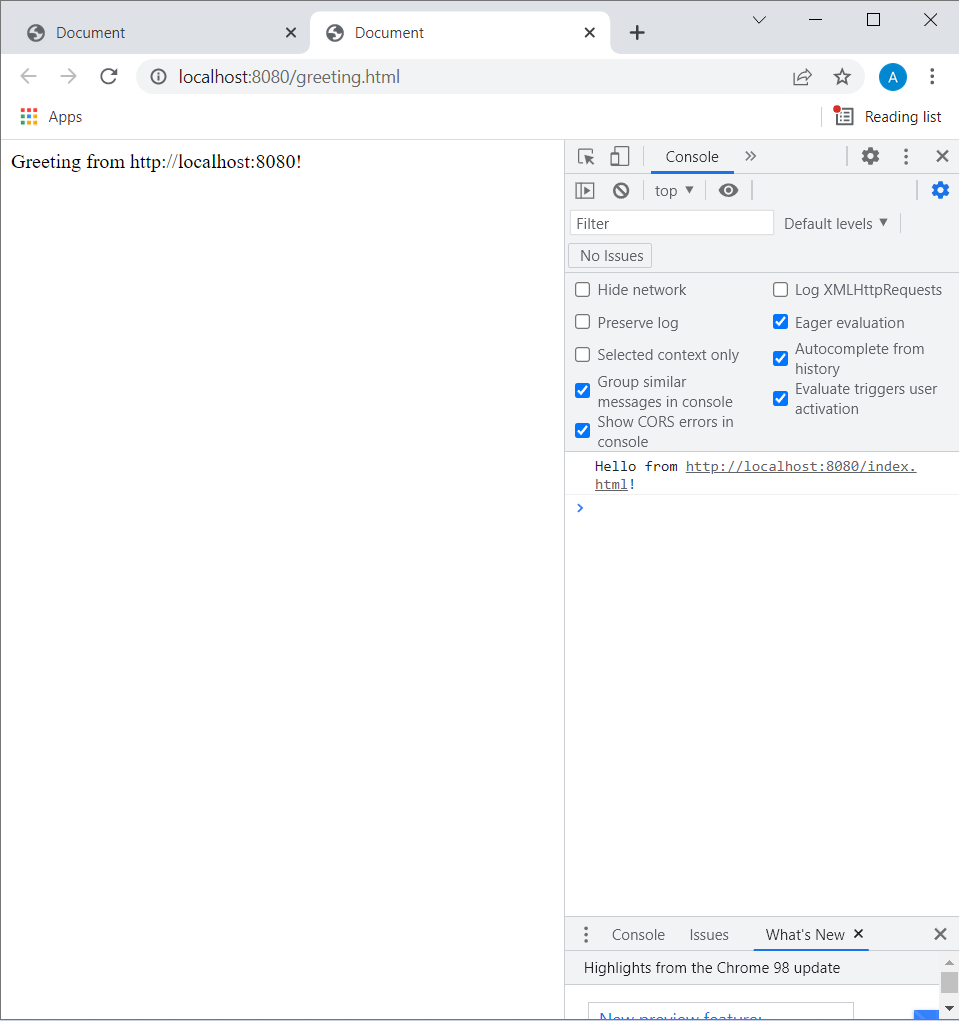
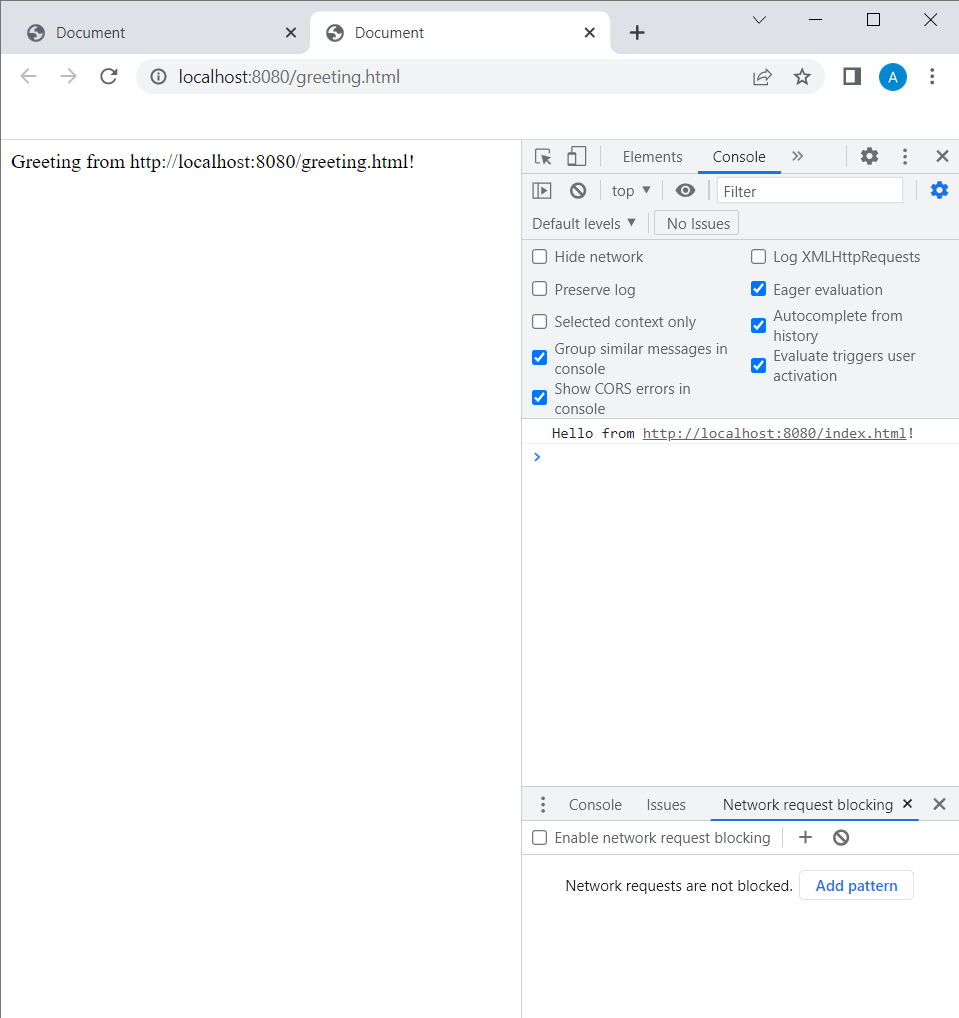
Notes about SOP updated

diff --git a/section_6_same_origin_policy/examples/window-open/origin2/main.js b/section_6_same_origin_policy/examples/window-open/origin2/main.js
@@ -11,7 +11,7 @@ document.addEventListener('DOMContentLoaded', function () {
     window.newWindow = newWindow;
     newWindow.addEventListener('load', function () {
       const greetingContainer = newWindow.document.getElementById('greeting-container');
-      const greetingContent = document.createTextNode(`Greeting from ${window.location.origin}!`);
+      const greetingContent = document.createTextNode(`Greeting from ${newWindow.location.href}!`);
       greetingContainer.appendChild(greetingContent);
     });
   }

diff --git a/section_6_same_origin_policy/notes/same_origin_policy.md b/section_6_same_origin_policy/notes/same_origin_policy.md
@@ -1,4 +1,4 @@
-# Same-origin policy
+# Same-origin policy (SOP)
 
 > The same-origin policy is a critical security mechanism that restricts how a document or script loaded by one origin can interact with a resource from another origin.
 
@@ -14,6 +14,8 @@
 
 Source: *JavaScript: The Definitive Guide*, 6th Edition, David Flanagan, Chapter 13: JavaScript in Web Browsers, p. 334
 
+All of the examples below were tested in Chrome, but any browser with developer tools that let users inspect network traffic should work.
+
 ## Example 1 - accessing a cross-origin frame with `window.open`
 In `section_6_same_origin_policy\examples\window-open` you can find two directories: `origin1` and `origin2`. In `section_6_same_origin_policy\examples`, there is a `package.json` file containig two scripts:
 - `start:window-open:origin1` - which starts a simple HTTP server that serves files from the `origin1` directory on port 8080,
@@ -21,7 +23,7 @@ In `section_6_same_origin_policy\examples\window-open` you can find two director
 
 In your terminal, navigate to the `section_6_same_origin_policy\examples` directory and run `npm install` to install `http-server`. Then run `npm run start:window-open:origin1` to start the first server, open a new terminal window, navigate to `section_6_same_origin_policy\examples` there as well and run `npm run start:window-open:origin2` to start the second server.
 
-Next, navigate to http://localhost:8080/index.html. You will see a heading saying *Hello from http://localhost:8080!* and two buttons: `Open http://localhost:8080/greeting.html` and `Open http://localhost:8081/greeting.html`. When you click the first one, a new window will open with a message: *Greeting from http://localhost:8080!*. When you click the second one, another window will be opened, but with no greeting message this time.
+Next, navigate to http://localhost:8080/index.html. You will see a heading saying *Hello from http://localhost:8080!* and two buttons: `Open http://localhost:8080/greeting.html` and `Open http://localhost:8081/greeting.html`. When you click the first one, a new window will open with a message: *Greeting from http://localhost:8080/greeting.html!*. When you click the second one, another window will be opened, but with no greeting message this time.
 
 Now let's analyze the code. In `section_6_same_origin_policy\examples\window-open\origin1\index.html`, we have an `h1` heading and the two buttons mentioned earlier:
 ```html
@@ -80,11 +82,9 @@ In your terminal, navigate to the `section_6_same_origin_policy\examples` direct
 
 First make sure that the servers from the previous example are no longer running and then execute `npm run start:fetch:origin2` in one terminal window and `npm run start:fetch:origin1` in another.
 
-Now navigate to http://localhost:8080/index.html in your browser. You should see a simple page with two two buttons: `Fetch pandas from http://localhost:8080` and `Fetch pandas from http://localhost:8081`. Open dev tools and go to JavaScript console. Click the first button. You should see an array of three objects describing pandas. When you click the second button, you should see the following error in the console:
+Now navigate to http://localhost:8080/index.html in your browser. You should see a simple page with two buttons: `Fetch pandas from http://localhost:8080` and `Fetch pandas from http://localhost:8081`. Open dev tools and go to JavaScript console. Click the first button. You should see an array of three objects describing pandas. When you click the second button, you should see the following error in the console:
 
-```
-Access to fetch at 'http://localhost:8081/pandas.json' from origin 'http://localhost:8080' has been blocked by CORS policy: No 'Access-Control-Allow-Origin' header is present on the requested resource. If an opaque response serves your needs, set the request's mode to 'no-cors' to fetch the resource with CORS disabled.
-```
+> Access to fetch at 'http://localhost:8081/pandas.json' from origin 'http://localhost:8080' has been blocked by CORS policy: No 'Access-Control-Allow-Origin' header is present on the requested resource. If an opaque response serves your needs, set the request's mode to 'no-cors' to fetch the resource with CORS disabled.
 
 Let's take a look at the code. In `section_6_same_origin_policy\examples\fetch\origin1\index.html`, there is a `script` element loading a script from `origin2`:
 ```html
@@ -107,7 +107,7 @@ CORS stands for *Cross-Origin Resource Sharing* and is
 
 [Source](https://developer.mozilla.org/en-US/docs/Web/HTTP/Headers/Access-Control-Allow-Origin)
 
-Open the *Network* tab in the dev tools and find the request to http://localhost:8081/pandas.json. Among the response headers, you should see one named `Access-Control-Allow-Origin` with a value set to `*`. This header
+Open the *Network* tab in dev tools and find the request to http://localhost:8081/pandas.json. Among the response headers, you should see one named `Access-Control-Allow-Origin` with a value set to `*`. This header
 > indicates whether the response can be shared with requesting code from the given origin.
 
 [Source](https://developer.mozilla.org/en-US/docs/Web/HTTP/Headers/Access-Control-Allow-Origin)
@@ -120,4 +120,17 @@ And the `*` value
 You can check that the header is not present when the server from `origin2` is started without the `cors` option and, as a result, the `fetch` call fails.
 
 ## The purpose of the same-origin policy
-@TODO
+You may wonder how the same-origin policy protects users from attacks in the second example. Clicking the second button at http://localhost:8080/ causes an error:
+> Access to fetch at 'http://localhost:8081/pandas.json' from origin 'http://localhost:8080' has been blocked by CORS policy: No 'Access-Control-Allow-Origin' header is present on the requested resource.
+
+and the data from http://localhost:8081/pandas.json is not logged to the console. However, if we navigate to http://localhost:8081/pandas.json directly in a new browser tab, the browser will send a GET request that will be responded with a status code of `200 OK` (you can check it in the *Network* tab in dev tools) and our JSON file with pandas data will be displayed. The data would also be successfully returned if we sent a request with a tool like `curl` or Postman, instead of a browser.
+
+Moreover, if we once again run the server from `origin2` without the `cors` option, go back to http://localhost:8080/ and observe the *Network* tab while clicking the second button, we can see that the request is actually sent to the server, which responds with a status code 200. The response is just prevented from being read on client side. Why is that?
+
+The same-origin policy is a mechanism specific to browsers, and that's because browsers do something that tools like `curl` or Postman don't: they send cookies tied to a specific domain with all requests to that domain, regardless of where these requests come from.
+
+Imagine that we have a service, available at some URL endpoint, that returns some secret data in a response to GET requests that contain proper authentication cookies. Imagine that there's also a malicious website that performs a [Cross Site Request Forgery (CSRF)](https://owasp.org/www-community/attacks/csrf) attack - it tricks a user to send a request to our URL. If the user is already logged to our service and has the authentication cookie saved, the cookie will be sent with the request and, as a result, our URL will return the secret data.
+
+Since all of this happens on the user's machine, for the attack to be successful, the data would need to be sent to the attacker. But it can't, bacause the same-origin policy would block it from being read!
+
+You can read more about SOP and its importance in [this](https://sekurak.pl/czym-jest-cors-cross-origin-resource-sharing-i-jak-wplywa-na-bezpieczenstwo/) article (in Polish).
